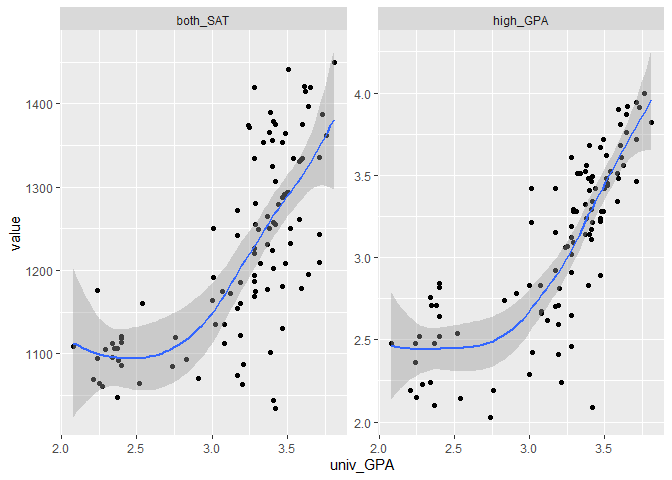
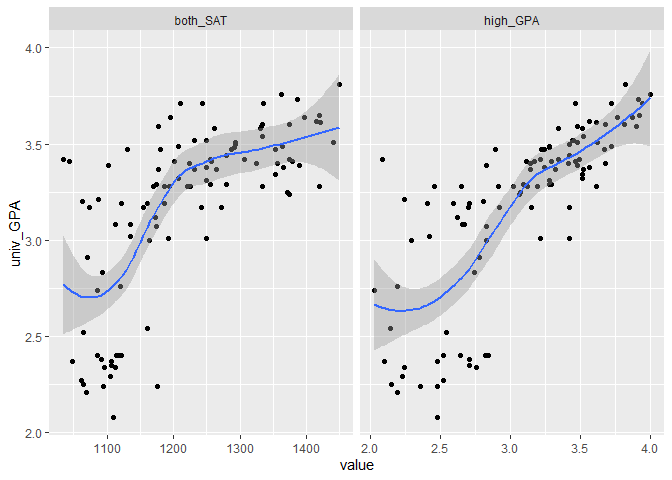
revise c10

diff --git a/challenges/c10-sat-assignment.md b/challenges/c10-sat-assignment.md
@@ -305,10 +305,10 @@ df_q2 <-
     values_to = "value",
     cols = c(high_GPA, both_SAT)
   ) %>% 
-  ggplot(mapping = aes(univ_GPA, value))+
+  ggplot(mapping = aes(value, univ_GPA))+
   geom_point() +
   geom_smooth() +
-  facet_wrap(~variable, scales = "free_y")
+  facet_wrap(~variable, scales = "free_x")
 df_q2
 ```
 
@@ -453,11 +453,17 @@ conf_int_sat
 - Which correlations are significantly nonzero?
   - Both correlations are significantly nonzero. The correlation between
     SAT and university GPA is approximately 0.685 and the correlation
-    between high school GPA and university GPA is approximately 0.78.
+    between high school GPA and university GPA is approximately 0.78. We
+    know that the correlations are signficantly nonzero and
+    statisitically significant because neither confidence interval
+    includes zero.
 - Which of `high_GPA` and `both_SAT` seems to be more strongly
   correlated with `univ_GPA`?
-  - There seems to be a stronger correlation between SAT and university
-    GPA than between high school GPA and university GPA.
+  - There seems to be a stronger correlation between high_GPA and
+    univ_GPA than between both_SAT and univ_GPA. This is because we see
+    a stronger correlation value and a confidence interval with a higher
+    range of values from looking at the correlation between high_GPA and
+    univ_GPA.
 - How do the results here compare with the visual you created in q2?
   - These results line up pretty accurately with the visual I created in
     q2. With the SAT and university GPA, we see that the points for a
@@ -603,11 +609,13 @@ fit_uni_sat %>%
 - What is the confidence interval on the coefficient of `both_SAT`? Is
   this coefficient significantly different from zero?
   - The confidence interval on the coefficient of both_SAT is \[0.00172,
-    0.00342\]. This coefficient (.00257) is not significantly different
-    from zero.
+    0.00342\]. This coefficient (.00257) is signficantly different from
+    zero and statistically significant due to the fact that the
+    confidence interval does not include zero.
 - By itself, how well does `both_SAT` predict `univ_GPA`?
   - By itself, both_SAT does not predict univ_GPA very well since we got
-    a coefficient that is not significantly different from zero.
+    a coefficient that is very low showing that both_SAT is not a great
+    predictor.
 
 Remember from `e-model03-interp-warnings` that there are challenges with
 interpreting regression coefficients! Let’s investigate that idea
@@ -660,21 +668,24 @@ fit_uni_high
 **Observations**:
 
 - How well do these models perform, compared to the one you built in q6?
-  - These models perform better than the one built in q6 as they have a
-    fit coefficent that is significantly different from zero, indicating
-    that there may be a relationship between univ_GPA and high_GPA, as
-    well as univ_GPA and both_SAT with high_GPA as an indicator.
+  - The model predicting univ_GPA with high_GPA and both_SAT does not
+    perform as well for both_SAT as the model in q6 since this model
+    yields a coefficient that is not significantly different from zero.
+    That being said, this model also shows how well high_GPA predicts
+    univ_GPA which is something the previous model in q6 did not.
 - What is the confidence interval on the coefficient of `both_SAT` when
   including `high_GPA` as a predictor?? Is this coefficient
   significantly different from zero?
-  - The confidence interval is \[0.19877, 1.71425\] on the coefficient
+  - The confidence interval is \[-0.00067, 0.00174\] on the coefficient
     of both_SAT including high_GPA as a predictor. The coefficient
-    estimate itself (0.75774) is significantly different from zero.
+    estimate (0.000534) is not significantly different from zero because
+    the confidence interval includes zero.
 - How do the hypothesis test results compare with the results in q6?
-  - Both of these test results reject the null hypothesis because the
-    coefficients are significantly different from zero. This differs
-    from the results in q6 where we found that the test results did not
-    reject the null hypothesis because the coefficient was not
+  - The test results for both_SAT and high_GPA as predictors for
+    univ_GPA while looking at both_SAT shows that the coefficient is not
+    significantly different from zero. high_GPA alone and paired with
+    both_SAT as a predictor is significantly different from zero. This
+    differs from q6 that showed that both_SAT as a predictor is
     significantly different from zero.
 
 ## Synthesize
@@ -690,19 +701,20 @@ Before closing, let’s synthesize a bit from the analyses above.
 - Between `both_SAT` and `high_GPA`, which single variable would you
   choose to predict `univ_GPA`? Why?
   - I would use high_GPA to predict univ_GPA because we found that the
-    coefficient for high_GPA is significantly different from zero,
-    rejecting the null hypothesis, while both_SAT’s coefficient was not
-    significantly different from zero. This means that high_GPA and
-    univ_GPA are more likely to have a relationship.
+    correlation between high_GPA and univ_GPA was stronger than the
+    correlation between both_SAT and univ_GPA. This would give me more
+    confidence that high school GPA is a stronger predictor of one’s
+    university GPA than the SAT score.
 - Is `both_SAT` an effective predictor of `univ_GPA`? What specific
   pieces of evidence do you have in favor of `both_SAT` being effective?
   What specific pieces of evidence do you have against?
   - Generally, I would say that both_SAT is not an effective predictor
-    of univ_GPA. We have the Pearon’s correlation that is in favor of
-    both_SAT being effective, having a value of around 0.75. That being
-    said, our model fit did not reject the null hypothesis between
-    univ_GPA and both_SAT indicating that there is likely not a
-    relationship between these two values.
+    of univ_GPA. We have the Pearson’s correlation that is in favor of
+    both_SAT being effective, having a value of around 0.685. That being
+    said, in q6 and q7 we found that both_SAT was not a good predictor
+    and in q7 we found that the correlation value was not signficantly
+    different from zero. This would lead me to conclude that both_SAT
+    should not be used as a predictor of univ_GPA.
 
 # End Notes
 
